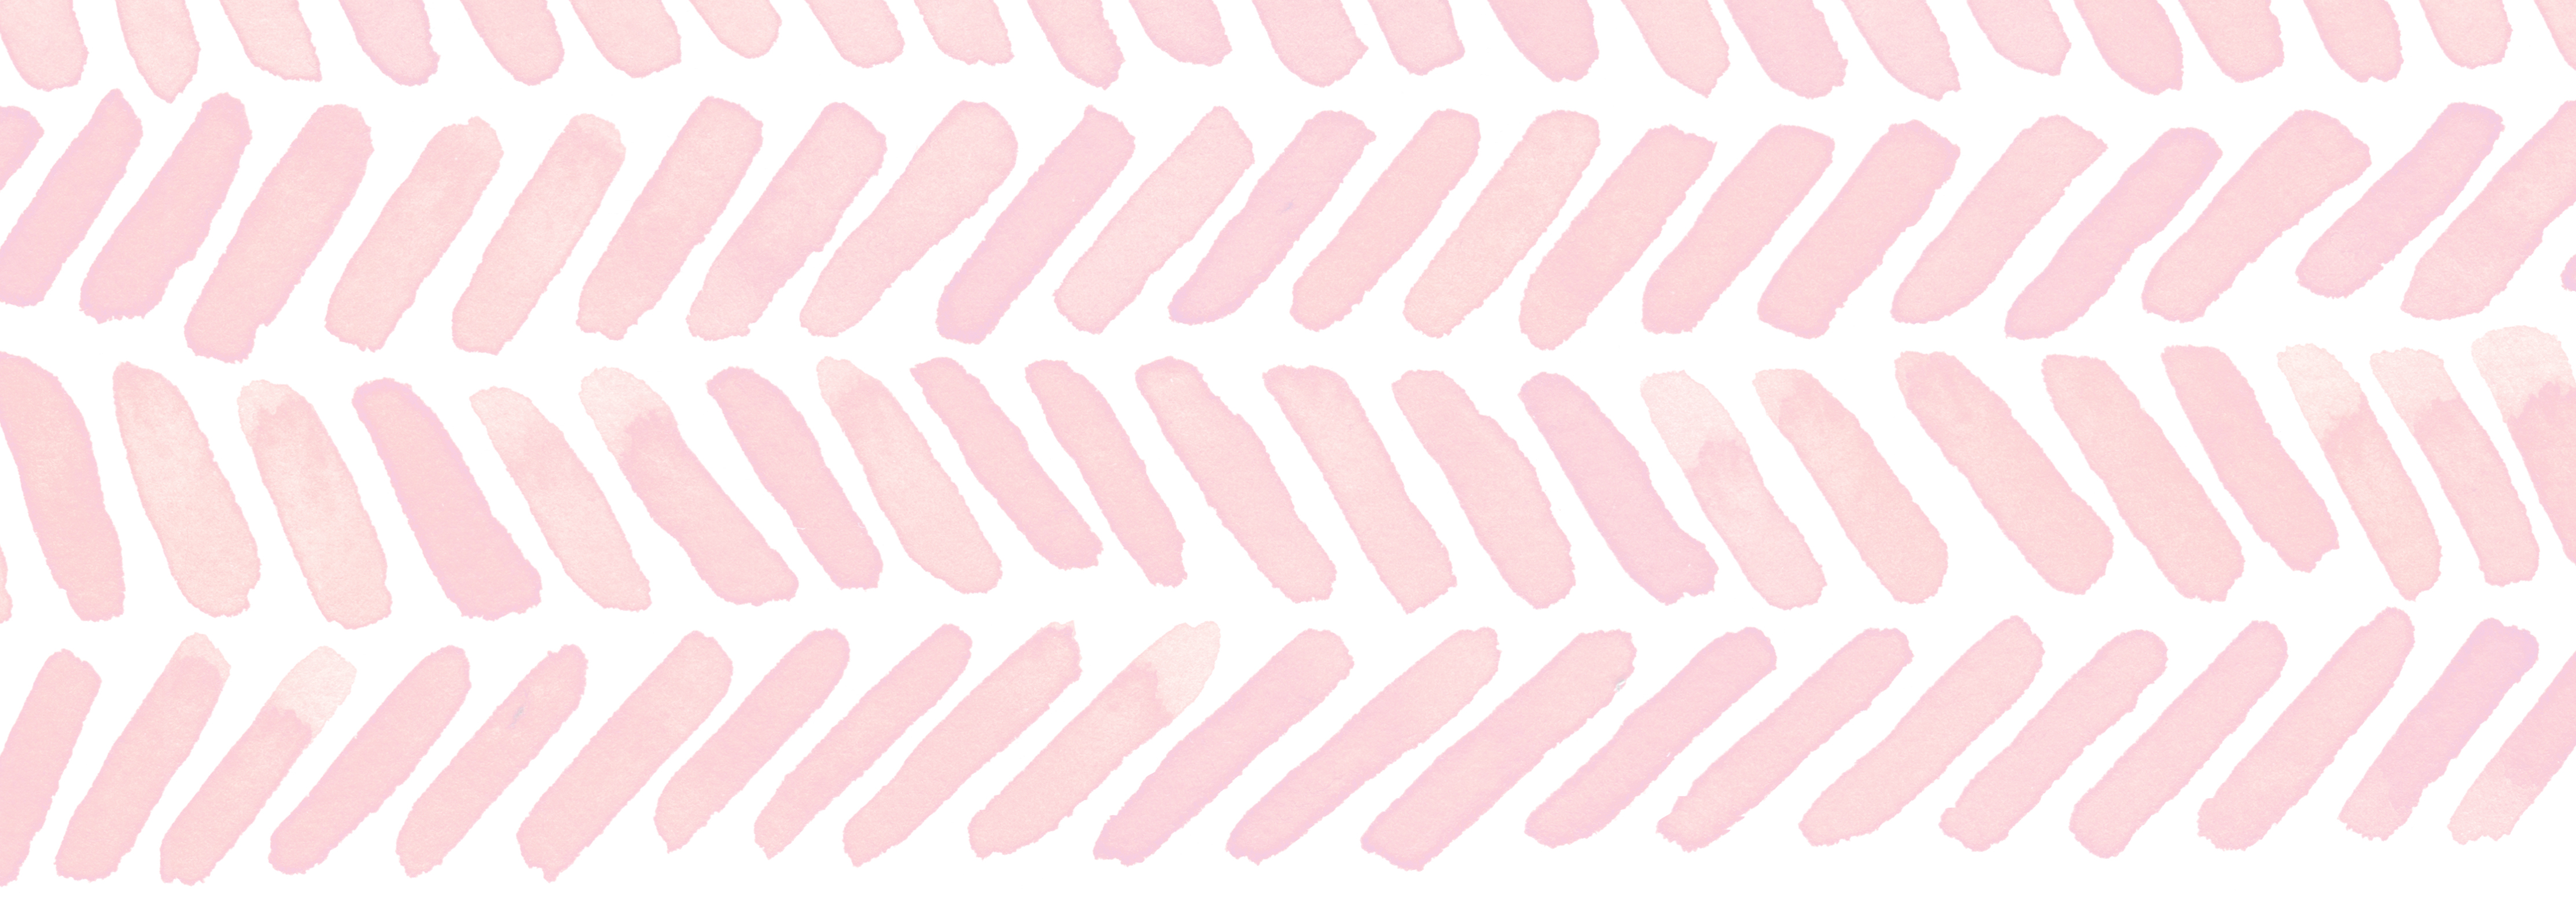
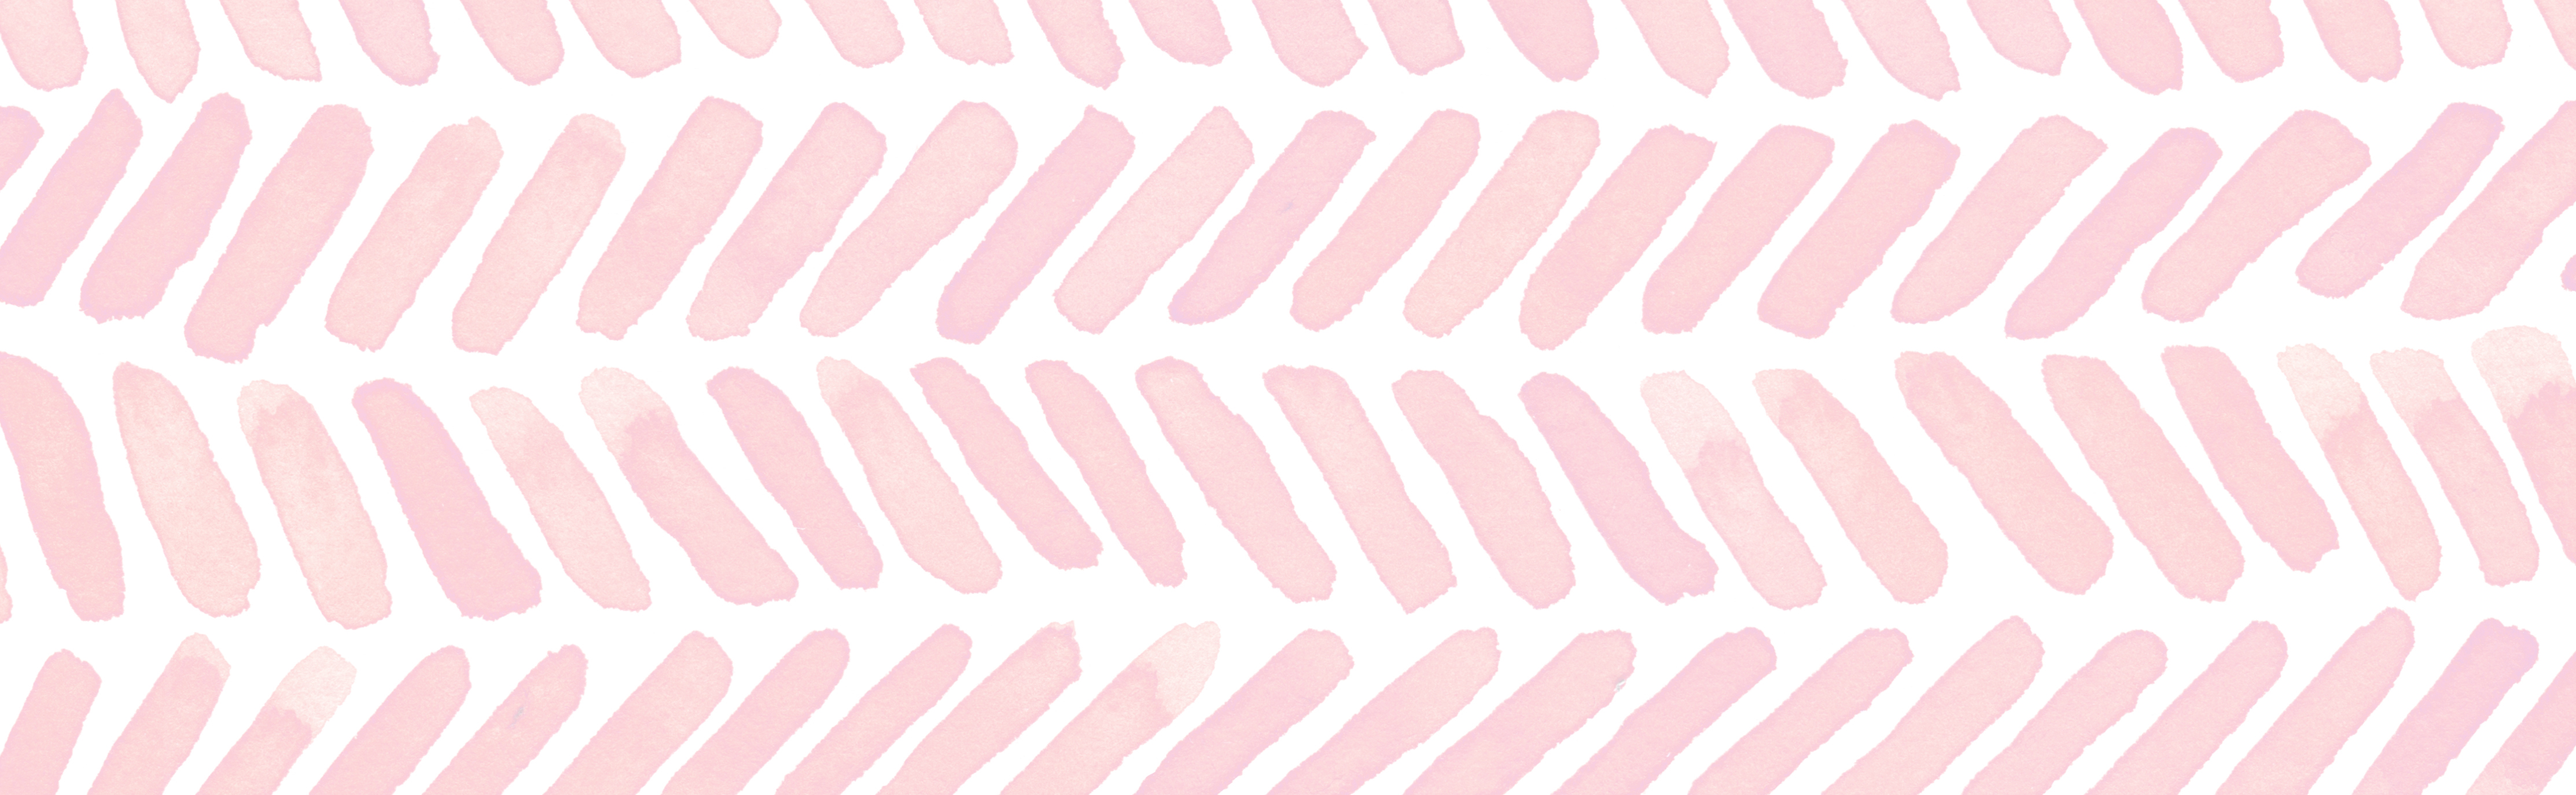
changed about again

diff --git a/styleabout.css b/styleabout.css
@@ -1,5 +1,5 @@
 body {
-  background-color: #d5cdcb !important;
+  background-color: #d8d4d2 !important;
   font-family: "gill sans", sans-serif !important;
 }
 
@@ -73,7 +73,7 @@ html, body {width: auto!important; overflow-x: hidden!important}
 
 .container-block {
   max-width: 100%;
-  background-image: url("/imgabout/red8.1.jpg");
+  background-image: url("/imgabout/red8.jpg");
   min-height: 210px; 
   background-attachment: fixed;
   background-position: center;
@@ -118,19 +118,18 @@ html, body {width: auto!important; overflow-x: hidden!important}
 
         .container-block2 {
           max-width: 100%;
-          background-image: url("/imgabout/prickarrosa.jpg");
+          background-image: url("/imgabout/prickarpink1.jpg");
           min-height: 400px; 
           background-attachment: fixed;
           background-position: center;
           background-repeat: no-repeat;
           background-size: cover;
-          margin-left: 260px;
         }
 
 
 
 
-        /* Scroll i toppen */
+/* Scroll i toppen */
 
 .roll {
   background-color: none;
@@ -147,12 +146,12 @@ p1 {
 }
 
 
-/* Stilen på texten om mig */
+/* Stilen på texten*/
 
 h2 {
   font-family: "gill sans";
   color: #7e634d;
-font-weight: 300;
+  font-weight: 300;
   font-size: 38px;
 }
 p {
@@ -173,7 +172,7 @@ h4 {
 }
 
 
-/*FLYGANDE RALL GIF*/
+/*Liten rall animation nere i hörnet GIF*/
 
 .footerimage img {
   width: 10%;
@@ -196,6 +195,8 @@ h4 {
 }
 
 /*SLUT RALL KNAPP*/
+
+/* Någon slags footer */
 
 .footerbackground {
   width: 100%;
